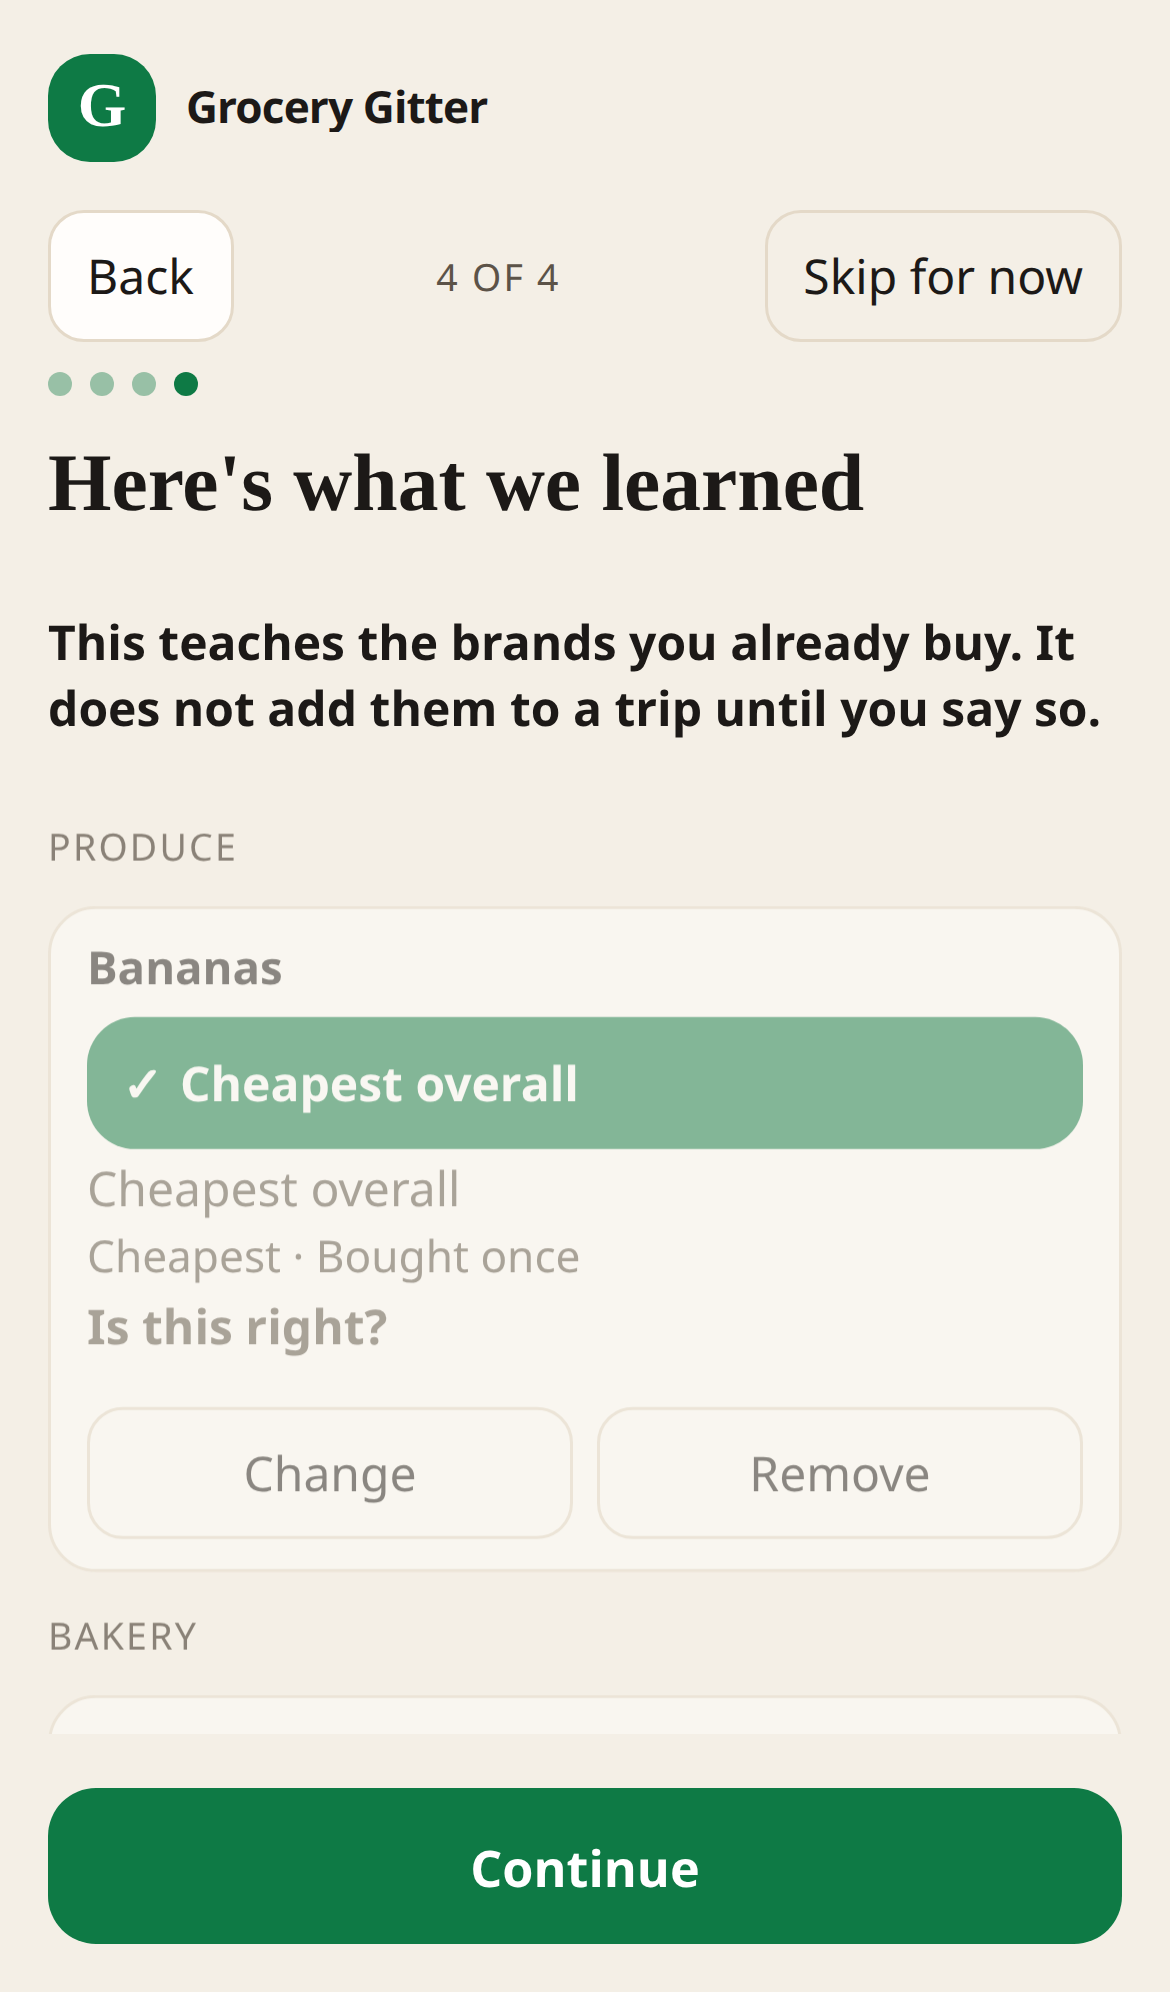
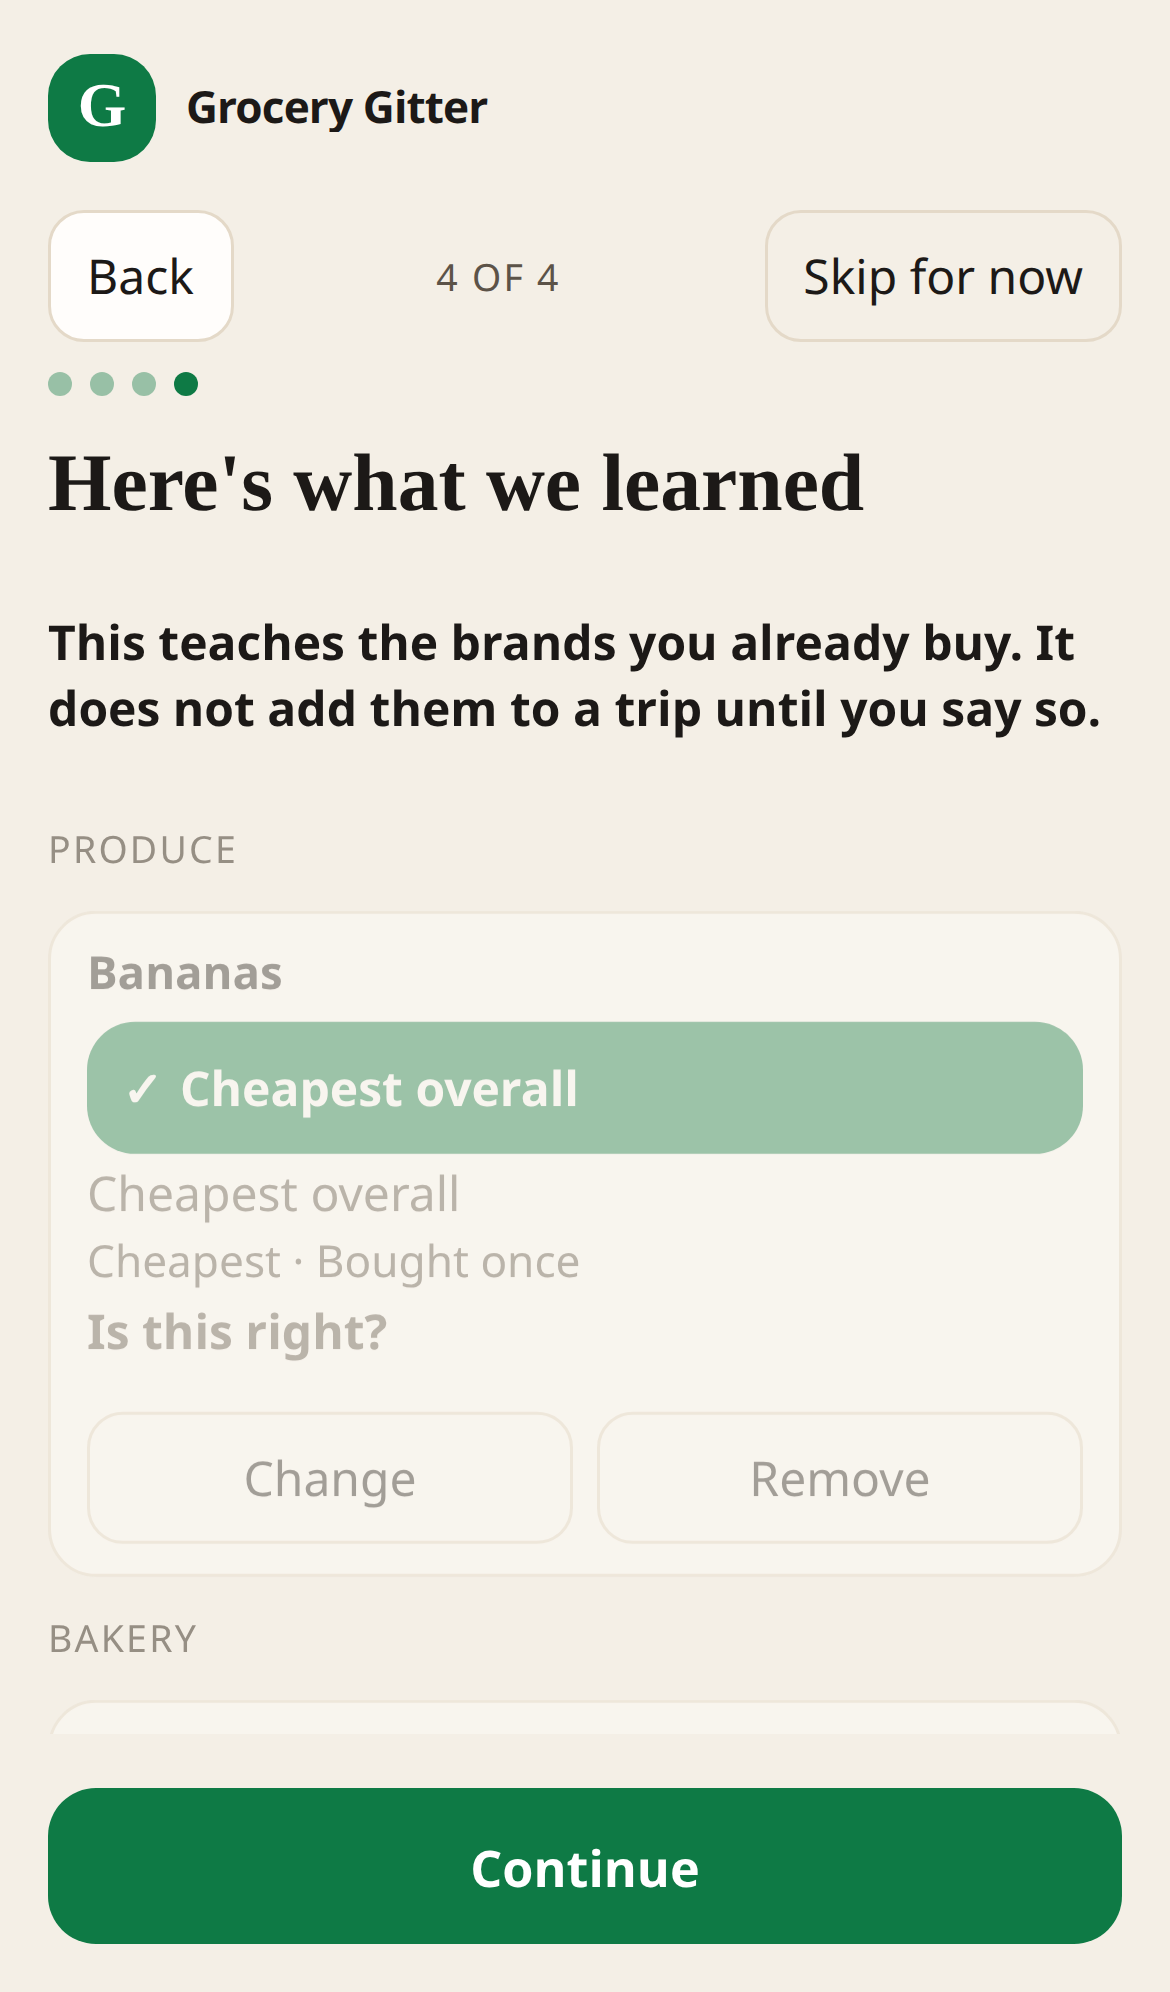
Give the finish toast its own row under the aisle card.
The confirmation sits between the aisle card and the guide, so the aisle subtitle, favorites, header, and Turn off stay uncovered on the 390x844 and 375x667 phones. Shell cache is v68.

diff --git a/e2e/phoneProof.spec.ts b/e2e/phoneProof.spec.ts
@@ -412,6 +412,13 @@ test("a tailgate bun brand is kept and adds the catalog bun", async ({ page }) =
   const summary = page.locator("#trip-summary");
   await expect(summary).toContainText("Sesame Burger Buns");
   await expect(summary).not.toContainText("Hot Dog Buns");
+  const bun = await page.evaluate(() => {
+    const rows = JSON.parse(localStorage.getItem("gg-list") || "[]") as Array<{ id?: string; name?: string; brand?: string }>;
+    return rows.find((row) => /sesame burger buns/i.test(row.name || "")) || null;
+  });
+  expect(bun?.name).toBe("Sesame Burger Buns");
+  expect(bun?.brand).toBe("Martin's");
+  expect(bun?.id).toBe("upc:99999600116");
   await page.screenshot({ path: "/opt/cursor/artifacts/tailgate-buns.png" });
 });
 
@@ -579,7 +586,12 @@ test("coming back from a store opens the return sheet", async ({ page }) => {
   expect(result.still).toMatch(/Still shopping/);
 });
 
-test("the finished-trip toast stays off the header and can be undone", async ({ page }) => {
+for (const size of [
+  { width: 390, height: 844 },
+  { width: 375, height: 667 },
+]) {
+test(`the finished-trip toast stays clear at ${size.width}x${size.height}`, async ({ page }) => {
+  await page.setViewportSize(size);
   await page.addInitScript(() => {
     localStorage.setItem("gg-onboarding-done", "1");
     localStorage.setItem("gg-zip", "45103");
@@ -593,33 +605,40 @@ test("the finished-trip toast stays off the header and can be undone", async ({ 
   await page.getByRole("button", { name: "Turn off" }).waitFor({ timeout: 3000 }).catch(() => undefined);
   await page.waitForTimeout(300);
   const hit = await page.evaluate(() => {
-    const box = (el) => {
+    const box = (el: Element | null | undefined) => {
       if (!el) return null;
       const rect = el.getBoundingClientRect();
       if (rect.width < 2 || rect.height < 2) return null;
-      return rect;
+      return { x: rect.x, y: rect.y, width: rect.width, height: rect.height, top: rect.top, bottom: rect.bottom };
     };
-    const intersects = (left, right) =>
+    const intersects = (left: { x: number; y: number; width: number; height: number } | null, right: ReturnType<typeof box>) =>
       Boolean(left && right && left.x < right.x + right.width && left.x + left.width > right.x && left.y < right.y + right.height && left.y + left.height > right.y);
     const toast = box(document.querySelector("#toast"));
-    const header = box(document.querySelector(".topbar"));
-    const off = box([...document.querySelectorAll("button")].find((button) => /turn off/i.test(button.textContent || "")));
-    const favorites = box([...document.querySelectorAll("button, .usuals-title")].find((node) => /your favorites/i.test(node.textContent || "")));
-    return {
-      header: intersects(toast, header),
-      off: intersects(toast, off),
-      favorites: intersects(toast, favorites),
-      toast,
-      guideTop: off?.y ?? null,
-      placed: document.querySelector("#toast")?.getAttribute("data-toast-place") || "",
-      bottom: document.querySelector("#toast") ? getComputedStyle(document.querySelector("#toast")).bottom : "",
+    const targets = {
+      header: box(document.querySelector(".topbar")),
+      ask: box(document.querySelector("#ask-hint")),
+      favorites: box(document.querySelector("#usuals-toggle")),
+      lists: box(document.querySelector("#starter-lists")),
+      past: box(document.querySelector("#past-trips-home")),
+      aisle: box(document.querySelector("#browse-toggle")),
+      guide: box(document.querySelector("#gitter-guide")),
+      off: box([...document.querySelectorAll("button")].find((button) => /turn off/i.test(button.textContent || "")) || null),
+      dock: box(document.querySelector(".step-bar")),
+      count: box(document.querySelector("#list-bar")),
+      privacy: box(document.querySelector(".site-footer")),
     };
+    const hits = Object.fromEntries(Object.entries(targets).map(([name, rect]) => [name, intersects(toast, rect)]));
+    const aisleUnderGuide = intersects(targets.aisle, targets.guide);
+    const listsUnderHeader = Boolean(targets.lists && targets.header && targets.lists.top < targets.header.bottom - 1);
+    return { hits, aisleUnderGuide, listsUnderHeader, toast, targets, placed: document.querySelector("#toast")?.getAttribute("data-toast-place") || "" };
   });
-  expect(hit.header, JSON.stringify(hit)).toBe(false);
-  expect(hit.off, JSON.stringify(hit)).toBe(false);
-  expect(hit.favorites, JSON.stringify(hit)).toBe(false);
-  await page.screenshot({ path: "/opt/cursor/artifacts/complete-toast.png" });
+  const covered = Object.entries(hit.hits).filter(([, value]) => value).map(([name]) => name);
+  expect(covered, JSON.stringify(hit)).toEqual([]);
+  expect(hit.aisleUnderGuide, JSON.stringify(hit)).toBe(false);
+  expect(hit.listsUnderHeader, JSON.stringify(hit)).toBe(false);
+  await page.screenshot({ path: `/opt/cursor/artifacts/complete-toast-${size.width}x${size.height}.png` });
   await page.locator("#toast-action").click();
   await expect(page.locator("#toast")).toContainText("Trip restored.");
   await expect(page.locator("#bar-count")).not.toHaveText("0 items");
 });
+}

diff --git a/public/app.js b/public/app.js
@@ -811,41 +811,85 @@ function parkToast() {
   toastEl.dataset.place = "page";
 }
 
+function clearToastOffset() {
+  if (!toastEl) return;
+  toastEl.style.top = "";
+  toastEl.style.bottom = "";
+  toastEl.style.left = "";
+  toastEl.style.right = "";
+  toastEl.style.width = "";
+  toastEl.style.maxWidth = "";
+  toastEl.style.transform = "";
+}
+
+function releaseToastClearance() {
+  document.body.removeAttribute("data-toast-clear");
+  document.getElementById("shelf-entry")?.removeAttribute("data-toast-hide");
+  const guide = document.getElementById("gitter-guide");
+  if (guide) {
+    guide.style.bottom = "";
+    guide.style.top = "";
+    guide.style.maxHeight = "";
+  }
+  clearToastOffset();
+}
+
 function placePageToast() {
   if (!toastEl || toastEl.dataset.place === "sheet") {
-    if (toastEl) {
-      toastEl.style.top = "";
-      toastEl.style.bottom = "";
-      toastEl.style.left = "";
-      toastEl.style.right = "";
-      toastEl.style.width = "";
-      toastEl.style.maxWidth = "";
-      toastEl.style.transform = "";
-    }
+    releaseToastClearance();
     return;
   }
   const guide = document.getElementById("gitter-guide");
   const guideBox = guide instanceof HTMLElement && !guide.hidden ? guide.getBoundingClientRect() : null;
   const guideOpen = Boolean(guideBox && guideBox.height > 24);
-  toastEl.dataset.toastPlace = guideOpen ? "above-guide" : toastEl.dataset.place || "page";
-  if (!guideOpen) {
-    toastEl.style.top = "";
-    toastEl.style.bottom = "";
-    toastEl.style.left = "";
-    toastEl.style.right = "";
-    toastEl.style.width = "";
-    toastEl.style.maxWidth = "";
-    toastEl.style.transform = "";
+  const browse = document.getElementById("browse");
+  const onAdd = document.body.dataset.step === "add" && browse instanceof HTMLElement;
+  if (!guideOpen || !onAdd) {
+    releaseToastClearance();
+    if (!guideOpen) {
+      toastEl.dataset.toastPlace = toastEl.dataset.place || "page";
+      return;
+    }
+    const gap = Math.max(12, Math.round(window.innerHeight - guideBox.top + 12));
+    toastEl.style.top = "auto";
+    toastEl.style.left = "50%";
+    toastEl.style.right = "auto";
+    toastEl.style.width = "min(28rem, calc(100% - 24px))";
+    toastEl.style.maxWidth = "min(28rem, calc(100% - 24px))";
+    toastEl.style.transform = "translateX(-50%)";
+    toastEl.style.bottom = `${gap}px`;
+    toastEl.dataset.toastPlace = "above-guide";
     return;
   }
-  const gap = Math.max(12, Math.round(window.innerHeight - guideBox.top + 12));
-  toastEl.style.top = "auto";
-  toastEl.style.left = "50%";
-  toastEl.style.right = "auto";
-  toastEl.style.width = "min(28rem, calc(100% - 24px))";
-  toastEl.style.maxWidth = "min(28rem, calc(100% - 24px))";
-  toastEl.style.transform = "translateX(-50%)";
-  toastEl.style.bottom = `${gap}px`;
+  const shelf = document.getElementById("shelf-entry");
+  if (shelf && shelf.getBoundingClientRect().height < 1) shelf.dataset.toastHide = "1";
+  document.body.dataset.toastClear = "1";
+  if (toastEl.parentElement !== browse.parentElement || toastEl.previousElementSibling !== browse) {
+    browse.insertAdjacentElement("afterend", toastEl);
+  }
+  clearToastOffset();
+  toastEl.dataset.toastPlace = "after-aisle";
+  const toastBox = toastEl.getBoundingClientRect();
+  const nextGuide = guide.getBoundingClientRect();
+  const overlap = Math.ceil(toastBox.bottom + 4 - nextGuide.top);
+  if (overlap > 0) {
+    const dock = document.querySelector(".step-bar")?.getBoundingClientRect();
+    const room = dock ? Math.floor(dock.top - nextGuide.bottom - 4) : overlap;
+    const computed = parseFloat(getComputedStyle(guide).bottom) || 0;
+    const shift = Math.min(overlap, Math.max(0, room));
+    if (shift > 0) guide.style.bottom = `${Math.max(0, computed - shift)}px`;
+  }
+  const placed = toastEl.getBoundingClientRect();
+  const aisle = document.getElementById("browse-toggle")?.getBoundingClientRect();
+  const guideNow = guide.getBoundingClientRect();
+  const blockBottom = Math.max(placed.bottom, aisle?.bottom || 0);
+  const stillCovered = Math.ceil(blockBottom + 4 - guideNow.top);
+  if (stillCovered > 1) {
+    const dockTop = document.querySelector(".step-bar")?.getBoundingClientRect().top ?? window.innerHeight;
+    guide.style.top = `${Math.ceil(blockBottom + 4)}px`;
+    guide.style.bottom = `${Math.max(8, Math.round(window.innerHeight - dockTop + 4))}px`;
+    guide.style.maxHeight = "none";
+  }
 }
 
 function toast(message, durationMs = 1600) {
@@ -868,7 +912,11 @@ function toast(message, durationMs = 1600) {
   };
   requestAnimationFrame(followGuide);
   window.clearTimeout(toastTimer);
-  toastTimer = window.setTimeout(() => toastEl.classList.remove("show"), durationMs);
+  toastTimer = window.setTimeout(() => {
+    toastEl.classList.remove("show");
+    parkToast();
+    releaseToastClearance();
+  }, durationMs);
 }
 
 function toastAction(message, label, onClick, durationMs = 4500) {

diff --git a/public/styles.css b/public/styles.css
@@ -1057,6 +1057,31 @@ dialog.shopping-mode .ready-check input { width: 1.7rem; height: 1.7rem; }
   max-width: min(28rem, calc(100% - 24px));
 }
 .toast.show { opacity: 1; transform: translateX(-50%) translateY(0); pointer-events: auto; }
+body[data-toast-clear="1"] #catalog {
+  gap: 0;
+}
+body[data-toast-clear="1"] #start-here {
+  gap: 0;
+}
+body[data-toast-clear="1"] #shelf-entry[data-toast-hide="1"] {
+  display: none !important;
+}
+body[data-toast-clear="1"] #toast.show {
+  position: static;
+  left: auto;
+  right: auto;
+  top: auto;
+  bottom: auto;
+  transform: none;
+  width: 100%;
+  max-width: none;
+  margin: 8px 0 0;
+  z-index: 4;
+}
+body[data-toast-clear="1"] #gitter-guide {
+  padding-top: 8px;
+  padding-bottom: 8px;
+}
 .toast button, #toast-action {
   background: #fffdfb; color: #1c1917; border: 0; border-radius: 999px;
   min-height: 36px; padding: 0 14px; font-weight: 750;

diff --git a/e2e/phoneFlowRest.spec.ts b/e2e/phoneFlowRest.spec.ts
@@ -837,6 +837,11 @@ test("an eight item import review can reach the last row and the add button", as
   });
   expect(fit.button).toBe(true);
   expect(fit.row).toBe(true);
+  await page.getByRole("button", { name: /^Remove/ }).first().click();
+  await expect(page.locator("[data-key^='row-']")).toHaveCount(7);
+  await page.getByRole("button", { name: "Undo" }).click();
+  await expect(page.locator("[data-key^='row-']")).toHaveCount(8);
+  await expect(page.locator("[data-key='row-0']")).toBeVisible();
 });
 
 test("unresolved rows remove by swipe or button and can be undone", async ({ page }) => {

diff --git a/src/shopper/phoneRetest10Add.test.ts b/src/shopper/phoneRetest10Add.test.ts
@@ -168,7 +168,7 @@ describe("tenth phone test — Add tab", () => {
     assert.match(app, /pastTripsEmptyHtml/);
     assert.match(html, /addTabPolish\.css/);
     const sw = readFileSync(new URL("../../public/sw.js", import.meta.url), "utf8");
-    assert.match(sw, /grocery-gitter-shell-v67/);
+    assert.match(sw, /grocery-gitter-shell-v68/);
     const header = html.slice(html.indexOf("<header"), html.indexOf('id="app-drawer"'));
     assert.match(header, /id="menu-open"/);
     assert.match(header, /id="brand-home"/);

diff --git a/src/shopper/phoneRetest11.test.ts b/src/shopper/phoneRetest11.test.ts
@@ -28,8 +28,8 @@ const sw = readFileSync(new URL("../../public/sw.js", import.meta.url), "utf8");
 const importer = readFileSync(new URL("../../public/shopper/import.js", import.meta.url), "utf8");
 
 describe("eleventh phone test", () => {
-  it("bumps the shell cache to v67", () => {
-    assert.match(sw, /grocery-gitter-shell-v67/);
+  it("bumps the shell cache to v68", () => {
+    assert.match(sw, /grocery-gitter-shell-v68/);
   });
 
   it("keeps the Grocery Gitter wordmark in the header flow", () => {

diff --git a/src/shopper/phoneRetest9.test.ts b/src/shopper/phoneRetest9.test.ts
@@ -24,8 +24,8 @@ const sw = readFileSync(new URL("../../public/sw.js", import.meta.url), "utf8");
 const coupons = readFileSync(new URL("../../public/shopper/coupons.js", import.meta.url), "utf8");
 
 describe("ninth phone test", () => {
-  it("bumps the shell cache to v67", () => {
-    assert.match(sw, /grocery-gitter-shell-v67/);
+  it("bumps the shell cache to v68", () => {
+    assert.match(sw, /grocery-gitter-shell-v68/);
   });
 
   it("suggests nearby ZIPs and does not trust one census code", () => {

diff --git a/src/shopper/phoneRetest12Review.test.ts b/src/shopper/phoneRetest12Review.test.ts
@@ -73,9 +73,9 @@ function streamed(total: number) {
 }
 
 describe("twelfth phone test, Review and In-store", () => {
-  it("bumps the shell cache to v67", () => {
-    assert.equal(SHELL_CACHE, "v67");
-    assert.match(sw, /grocery-gitter-shell-v67/);
+  it("bumps the shell cache to v68", () => {
+    assert.equal(SHELL_CACHE, "v68");
+    assert.match(sw, /grocery-gitter-shell-v68/);
   });
 
   it("ends a cold review with a retry instead of an endless checking shell", () => {

diff --git a/src/shopper/phoneRetest7.test.ts b/src/shopper/phoneRetest7.test.ts
@@ -13,7 +13,7 @@ const kroger = readFileSync(new URL("../../public/shopper/krogerReturn.js", impo
 
 describe("seventh phone retest regressions", () => {
   it("bumps the shell cache to v30 and keeps the Walmart cart button", () => {
-    assert.match(sw, /grocery-gitter-shell-v67/);
+    assert.match(sw, /grocery-gitter-shell-v68/);
     assert.match(app, /data-walmart-cart/);
     assert.match(app, /Open in Walmart cart/);
     assert.match(app, /startsWith\("custom:"\)/);

diff --git a/src/shopper/phoneRetest10Onboarding.test.ts b/src/shopper/phoneRetest10Onboarding.test.ts
@@ -23,8 +23,8 @@ const sw = readFileSync(new URL("../../public/sw.js", import.meta.url), "utf8");
 const CINCINNATI = { lat: 39.0916, lng: -84.1437 };
 
 describe("tenth phone test onboarding", () => {
-  it("bumps the shell cache to v67", () => {
-    assert.match(sw, /grocery-gitter-shell-v67/);
+  it("bumps the shell cache to v68", () => {
+    assert.match(sw, /grocery-gitter-shell-v68/);
   });
 
   it("starts the ZIP field empty unless a saved ZIP exists", () => {

diff --git a/src/shopper/shelfScan.test.ts b/src/shopper/shelfScan.test.ts
@@ -196,7 +196,7 @@ describe("shelf scan list rules", () => {
     assert.match(html, /Fridge and pantry scan needs photo reading/);
     assert.match(app, /mountShelfScan/);
     assert.match(app, /addFromPreferences/);
-    assert.match(sw, /grocery-gitter-shell-v67/);
+    assert.match(sw, /grocery-gitter-shell-v68/);
     assert.match(client, /capture="environment"/);
     assert.match(client, /accept="image\/\*" multiple/);
     assert.match(client, /imageBlobs/);

diff --git a/src/shopper/chromeIos.test.ts b/src/shopper/chromeIos.test.ts
@@ -27,7 +27,7 @@ const DESKTOP = "Mozilla/5.0 (Macintosh; Intel Mac OS X 10_15_7) AppleWebKit/537
 
 describe("Chrome on iPhone", () => {
   it("recognizes CriOS and ignores a home-screen install", () => {
-    assert.match(sw, /grocery-gitter-shell-v67/);
+    assert.match(sw, /grocery-gitter-shell-v68/);
     assert.match(app, /openStoreHandoff/);
     assert.match(app, /applySharedHandoff/);
     assert.match(app, /handoffBridgePath/);
